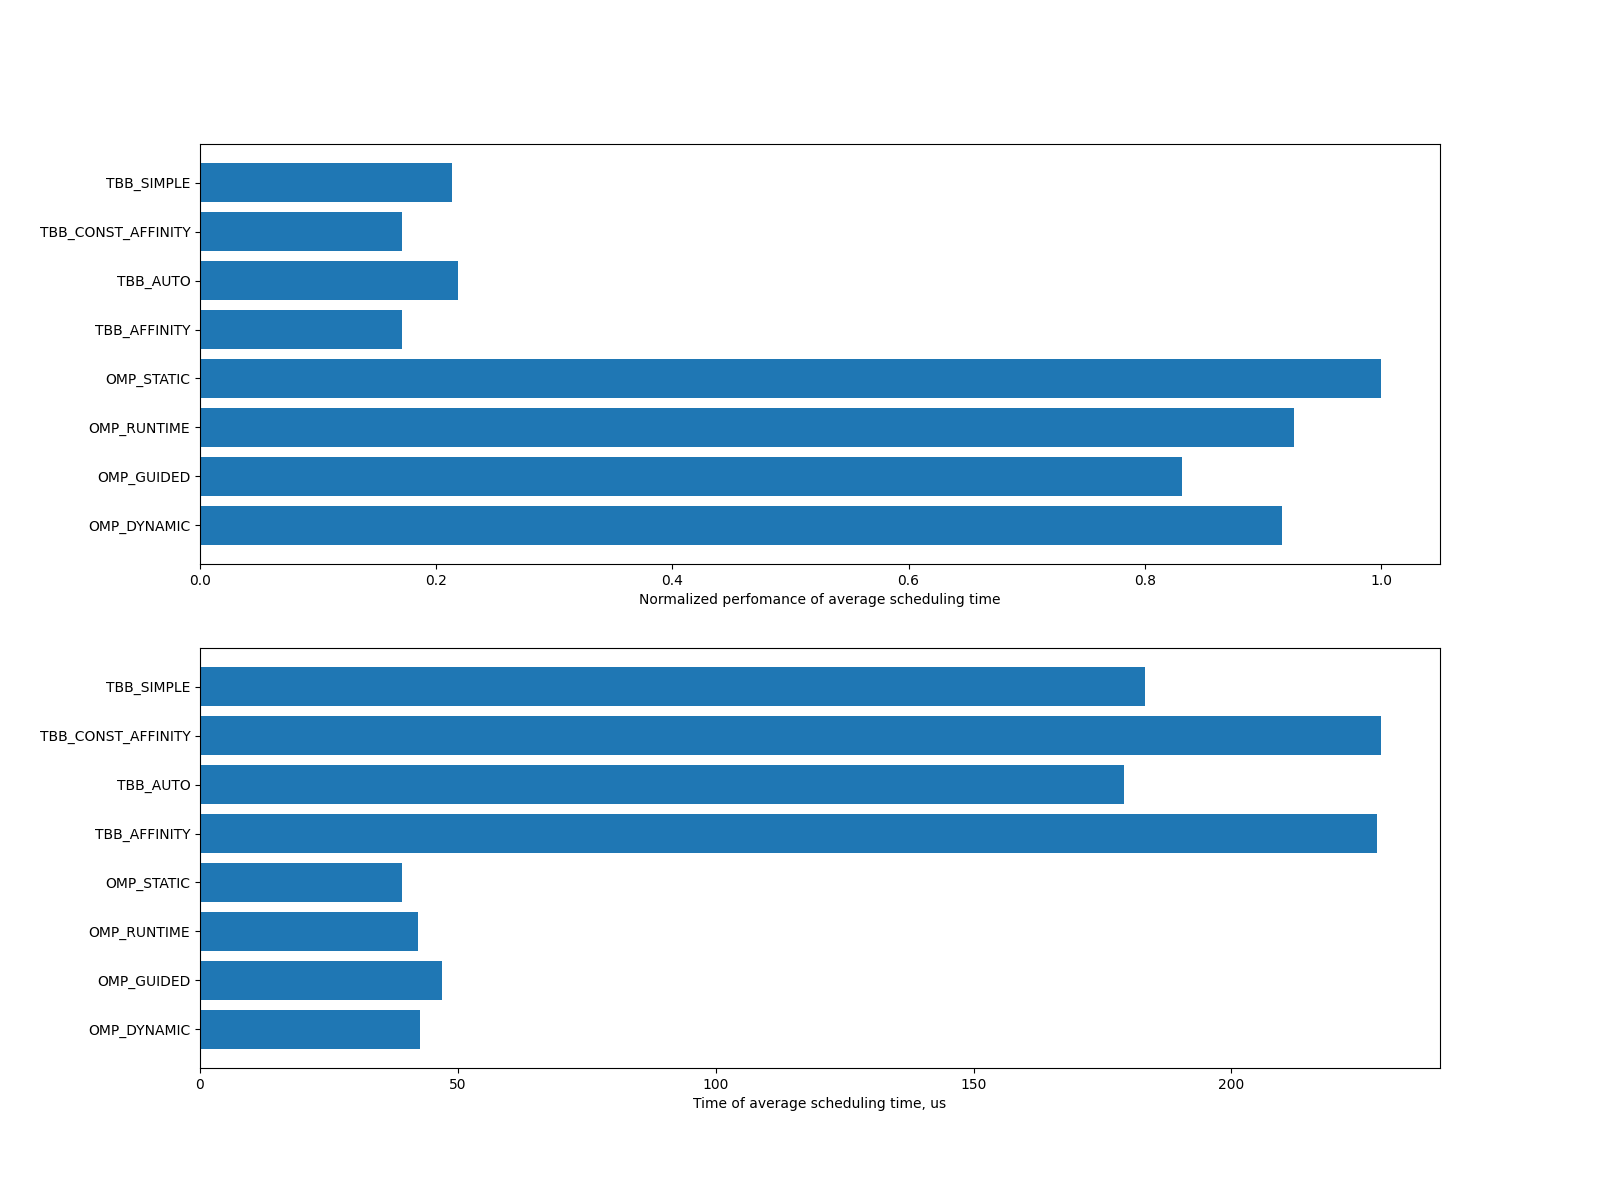
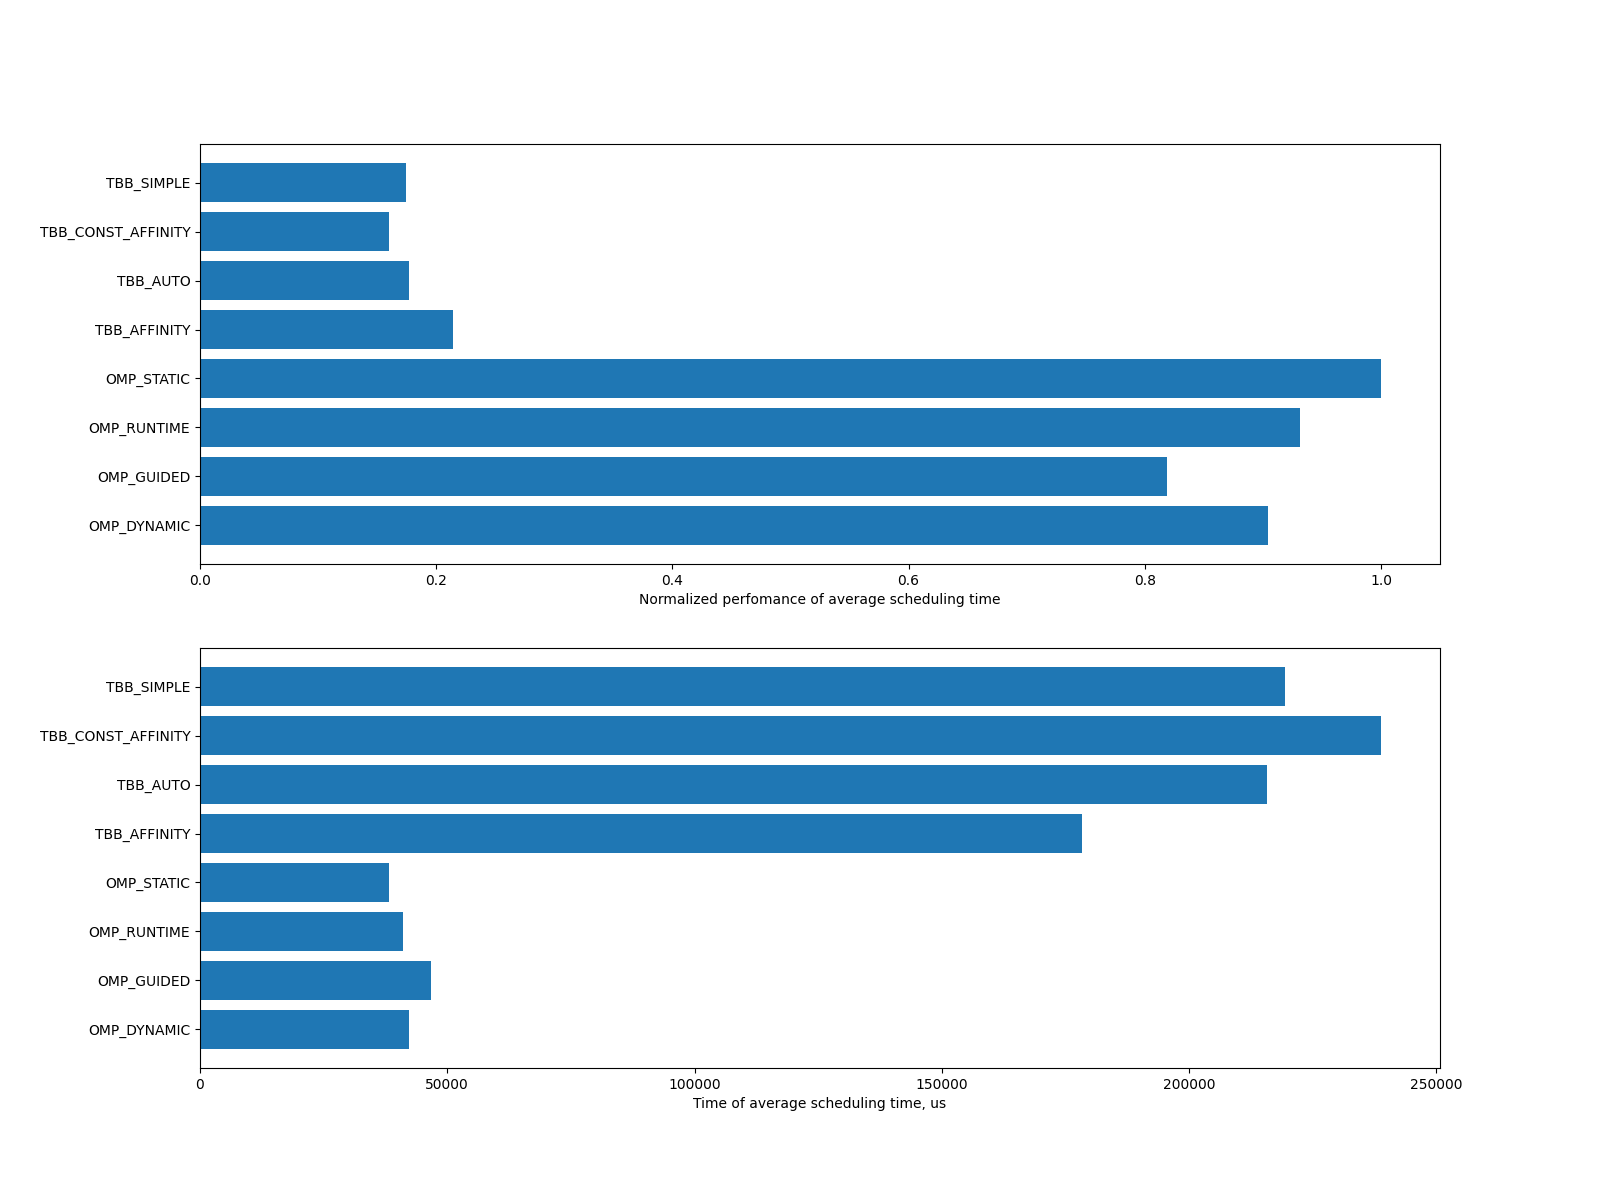
log variance

diff --git a/benchplot.py b/benchplot.py
@@ -63,11 +63,16 @@ def plot_scheduling_benchmarks(scheduling_times):
     # x for thread_idx, y for time
     fig, ax = plt.subplots(1, 1, figsize=(12, 6))
     for bench_type, times in reversed(sorted(scheduling_times.items(), key=lambda x: max(x[1]))):
-        print(bench_type, times)
-        ax.plot(range(len(times)), times, label=bench_type)
+        # mean time per thread for each idx in range of thread count
+        times = np.asarray(times)
+        means = np.mean(times, axis=0)
+        stds = np.std(times, axis=0)
+        print(bench_type, means, stds)
+        # TODO: plot stds
+        ax.plot(range(len(means)), means, label=bench_type)
     ax.set_title("Scheduling time")
     ax.set_xlabel("Index of thread")
-    ax.set_ylabel("Time, us")
+    ax.set_ylabel("Clock ticks")
     ax.legend()
     return fig
 
@@ -88,18 +93,14 @@ if __name__ == "__main__":
     # plot scheduling benchmarks
     scheduling_times = {}
     for bench_type, res in scheduling_bench.items():
-        # print thread num, used threads
-        print(bench_type, res["thread_num"], res["used_threads"])
-        if res["thread_num"] != res["used_threads"]:
-            print(f"Maybe something went wrong with {bench_type}: not all threads were used")
-        scheduling_times[bench_type] = [x/1e3 for x in res["start_times"]]
+        scheduling_times[bench_type] = res["results"]
 
     fig = plot_scheduling_benchmarks(scheduling_times)
     fig.savefig(os.path.join(res_path, 'scheduling_time.png'))
 
     # plot average scheduling time for all benchs
-    avg_times = {}
-    for bench_type, times in scheduling_times.items():
-        avg_times[bench_type.split("_", 2)[-1]] = sum(times) / len(times)
-    fig = plot_benchmark(avg_times, "average scheduling time")
-    fig.savefig(os.path.join(res_path, 'avg_scheduling_time.png'))
+    # avg_times = {}
+    # for bench_type, times in scheduling_times.items():
+    #     avg_times[bench_type.split("_", 2)[-1]] = sum(times) / len(times)
+    # fig = plot_benchmark(avg_times, "average scheduling time")
+    # fig.savefig(os.path.join(res_path, 'avg_scheduling_time.png'))

diff --git a/benchmarks/bench_scheduling.cpp b/benchmarks/bench_scheduling.cpp
@@ -1,6 +1,8 @@
 #include "parallel_for.h"
 #include <algorithm>
 #include <atomic>
+#include <cassert>
+#include <cmath>
 #include <iostream>
 #include <mutex>
 #include <thread>
@@ -64,23 +66,29 @@ static std::vector<uint64_t> runOnce(size_t threadNum) {
     // sleep for emulating work
     std::this_thread::sleep_for(sleepFor);
   });
-  auto times = TimeReporter::EndEpoch();
-  std::sort(times.begin(), times.end());
-  return times;
+  return TimeReporter::EndEpoch();
 }
 
-static void printTimes(size_t threadNum, const std::vector<uint64_t> &result) {
+static void printTimes(size_t threadNum,
+                       const std::vector<std::vector<uint64_t>> &result) {
   std::cout << "{";
   std::cout << "\"thread_num\": " << threadNum << ", ";
-  std::cout << "\"used_threads\": " << result.size() << ", ";
-  std::cout << "\"start_times\": [";
-  for (size_t i = 0; i < result.size(); i++) {
-    std::cout << result[i];
+  std::cout << "\"results\": [";
+  for (size_t i = 0; i < result.size(); ++i) {
+    std::cout << "[";
+    for (size_t j = 0; j < result[i].size(); ++j) {
+      std::cout << result[i][j];
+      if (j != result[i].size() - 1) {
+        std::cout << ", ";
+      }
+    }
+    std::cout << "]";
     if (i != result.size() - 1) {
       std::cout << ", ";
     }
   }
-  std::cout << "]}" << std::endl;
+  std::cout << "]";
+  std::cout << "}" << std::endl;
 }
 
 int main(int argc, char **argv) {
@@ -91,16 +99,12 @@ int main(int argc, char **argv) {
   runOnce(threadNum); // just for warmup
 
   size_t repeat = 20;
-  std::vector<uint64_t> result(threadNum);
+  std::vector<std::vector<uint64_t>> results;
   for (size_t i = 0; i < repeat; i++) {
     auto times = runOnce(threadNum);
-    for (size_t j = 0; j < threadNum; j++) {
-      result[j] += times[j];
-    }
+    std::sort(times.begin(), times.end());
+    results.push_back(times);
   }
-  for (size_t j = 0; j < threadNum; j++) {
-    result[j] /= repeat;
-  }
-  printTimes(threadNum, result);
+  printTimes(threadNum, results);
   return 0;
 }
